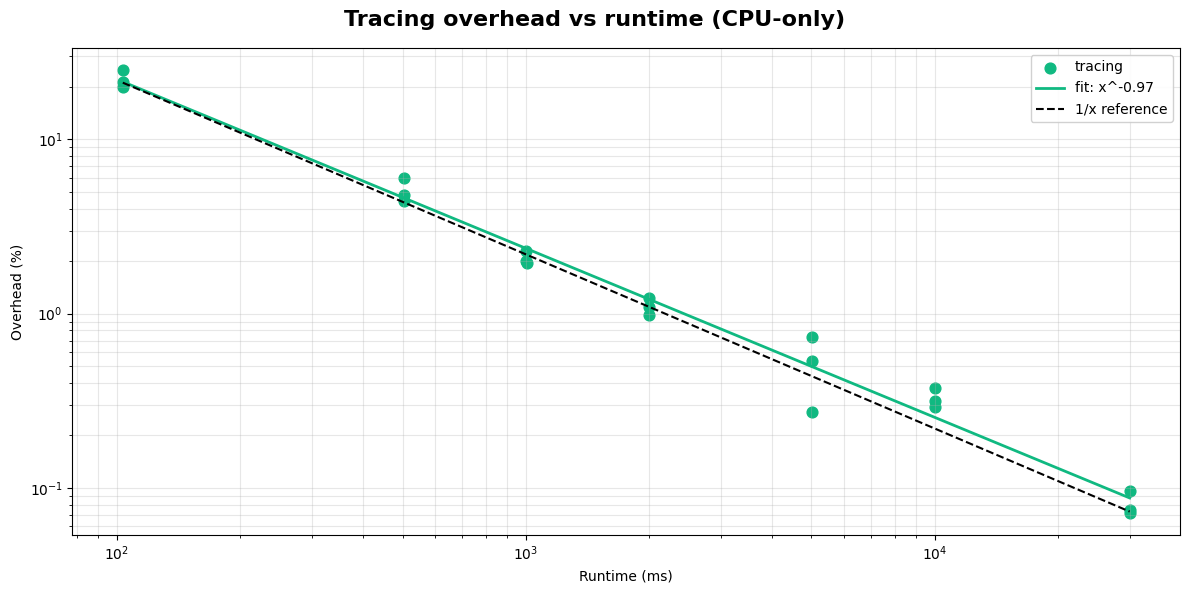
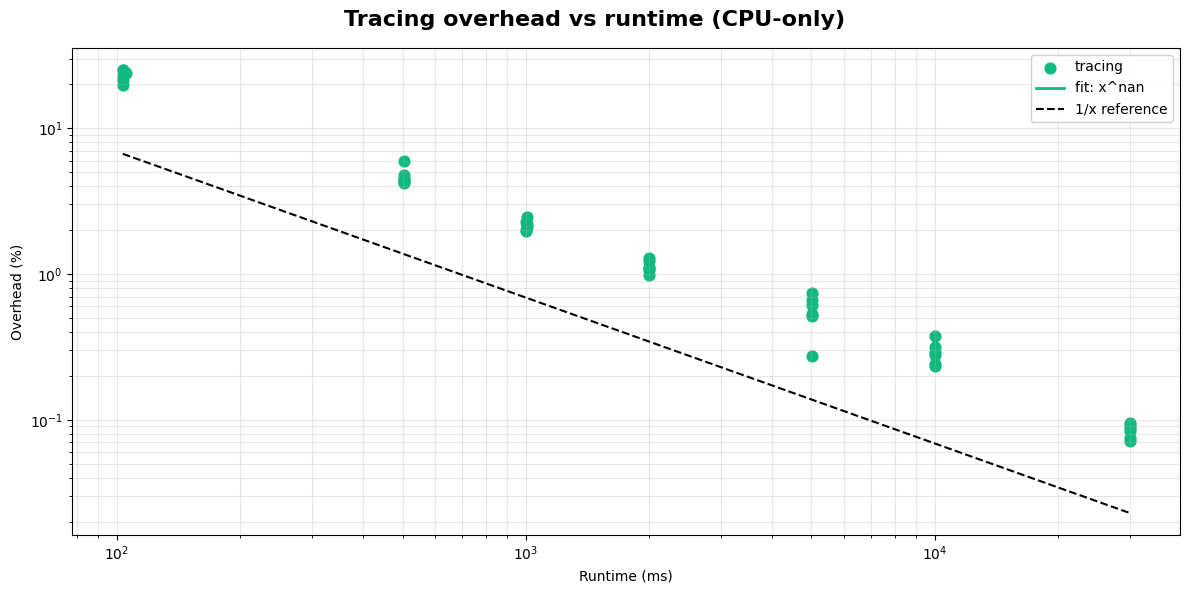
New Plots, New Results

diff --git a/tools/polytrace/test/benchmarks/plot_io_scaling_filesize.py b/tools/polytrace/test/benchmarks/plot_io_scaling_filesize.py
@@ -1,5 +1,10 @@
 #!/usr/bin/env python3
-"""Plot I/O scaling: overhead vs total data size (log-log)."""
+"""Plot I/O scaling: mean overhead vs total data size (log-log).
+
+Aggregates multiple iterations per configuration and computes mean and
+standard deviation (per total data size and file size category).
+Plots the mean values, optionally with error bars to visualize variability.
+"""
 
 import matplotlib.pyplot as plt
 import numpy as np
@@ -23,7 +28,8 @@ def main():
     output_dir = script_dir.parent.parent.parent.parent / 'public' / 'benchmarks'
     output_dir.mkdir(parents=True, exist_ok=True)
     
-    # Parse: {(file_size_mb, total_mb): [overhead_pct]}
+    # Parse aggregated overheads per configuration:
+    # {(file_size_mb, total_mb): [overhead_pct, ...]}
     data_by_config = {}
     
     with results_csv.open('r') as f:
@@ -73,31 +79,48 @@ def main():
         print("No I/O scaling data found")
         return 1
     
-    # Average per config: {file_size_mb: [(total_mb, overhead_pct)]}
+    # Aggregate per config with mean and std:
+    # {file_size_mb: [(total_mb, mean_overhead, std_overhead, count)]}
     by_file_size = {}
     for (file_size_mb, total_mb), overheads in data_by_config.items():
         if file_size_mb not in by_file_size:
             by_file_size[file_size_mb] = []
-        by_file_size[file_size_mb].append((total_mb, np.mean(overheads)))
+        arr = np.array(overheads, dtype=float)
+        mean_ovh = float(np.mean(arr))
+        std_ovh = float(np.std(arr, ddof=1)) if arr.size > 1 else 0.0
+        by_file_size[file_size_mb].append((total_mb, mean_ovh, std_ovh, int(arr.size)))
     
     # Create log-log plot
     fig, ax = plt.subplots(figsize=(12, 6))
-    fig.suptitle('Tracing overhead vs total data size (log-log)', fontsize=16, fontweight='bold')
+    fig.suptitle('Mean tracing overhead vs total data size (log-log)', fontsize=16, fontweight='bold')
     
     colors = {1: COLOR_SMALL, 10: COLOR_MEDIUM, 50: COLOR_LARGE}
     
     for file_size_mb in sorted(by_file_size.keys()):
         points = sorted(by_file_size[file_size_mb])
         total_mbs = np.array([p[0] for p in points])
-        overheads = np.array([p[1] for p in points])
-        
+        means = np.array([p[1] for p in points])
+        stds = np.array([p[2] for p in points])
+
         color = colors.get(file_size_mb, '#999999')
-        ax.scatter(total_mbs, overheads, c=color, marker='o', s=80, 
-                   label=f'{file_size_mb}MB files', zorder=3)
-        
-        # Fit and plot line
+        # Plot mean values with error bars (std dev)
+        ax.errorbar(
+            total_mbs,
+            means,
+            yerr=stds,
+            fmt='o',
+            color=color,
+            ecolor=color,
+            elinewidth=1,
+            capsize=3,
+            markersize=6,
+            label=f'{file_size_mb}MB files (mean ± std)',
+            zorder=3,
+        )
+
+        # Fit and plot line on mean values
         if len(total_mbs) >= 2:
-            m, b = _fit_loglog(total_mbs, overheads)
+            m, b = _fit_loglog(total_mbs, means)
             x_line = np.linspace(total_mbs.min(), total_mbs.max(), 200)
             y_line = 10**(m * np.log10(x_line) + b)
             ax.plot(x_line, y_line, color=color, linewidth=2, alpha=0.7)
@@ -114,16 +137,23 @@ def main():
     plt.savefig(output_file, dpi=100, bbox_inches='tight', facecolor='white', format='png')
     print(f"✓ {output_file}")
     
-    # Print summary
+    # Print summary with mean ± std per file size
     for file_size_mb in sorted(by_file_size.keys()):
         points = by_file_size[file_size_mb]
         sizes = [p[0] for p in points]
-        ovhs = [p[1] for p in points]
+        means = [p[1] for p in points]
+        stds = [p[2] for p in points]
+        counts = [p[3] for p in points]
         sizes_arr = np.array(sizes)
-        ovhs_arr = np.array(ovhs)
-        m, b = _fit_loglog(sizes_arr, ovhs_arr)
+        means_arr = np.array(means)
+        stds_arr = np.array(stds)
+        m, b = _fit_loglog(sizes_arr, means_arr)
+        avg_std = float(np.mean(stds_arr)) if stds_arr.size else 0.0
         print(f"\n{file_size_mb}MB files: scaling exponent = {m:.3f} (y ~ x^{m:.3f})")
-        print(f"  Size range: {sizes[0]}-{sizes[-1]}MB, Overhead: {ovhs[0]:.2f}%-{ovhs[-1]:.2f}%")
+        print(f"  Size range: {sizes[0]}-{sizes[-1]}MB, Mean overhead: {means[0]:.2f}%-{means[-1]:.2f}%, Avg std: {avg_std:.2f}%")
+        # Optional: show counts per point for transparency
+        counts_str = ', '.join(str(c) for c in counts)
+        print(f"  Repeats per point: [{counts_str}]")
     
     return 0
 
